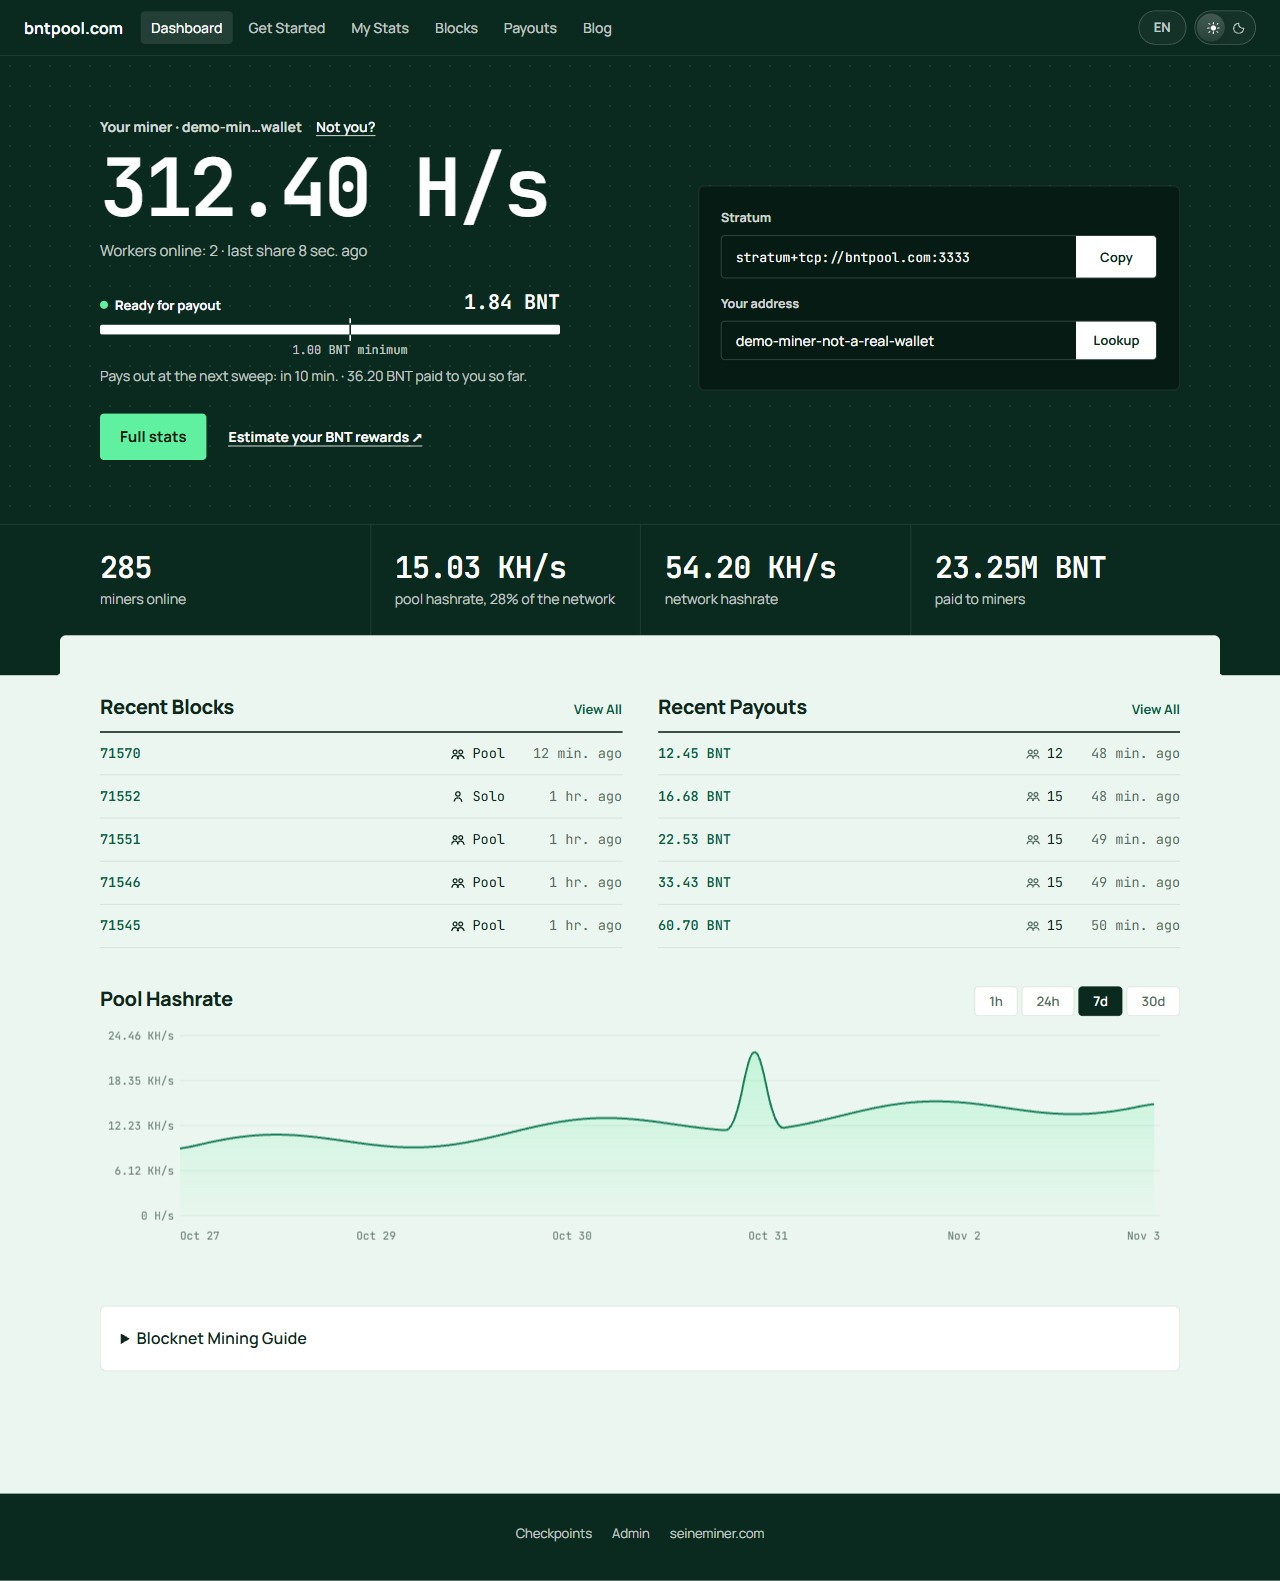
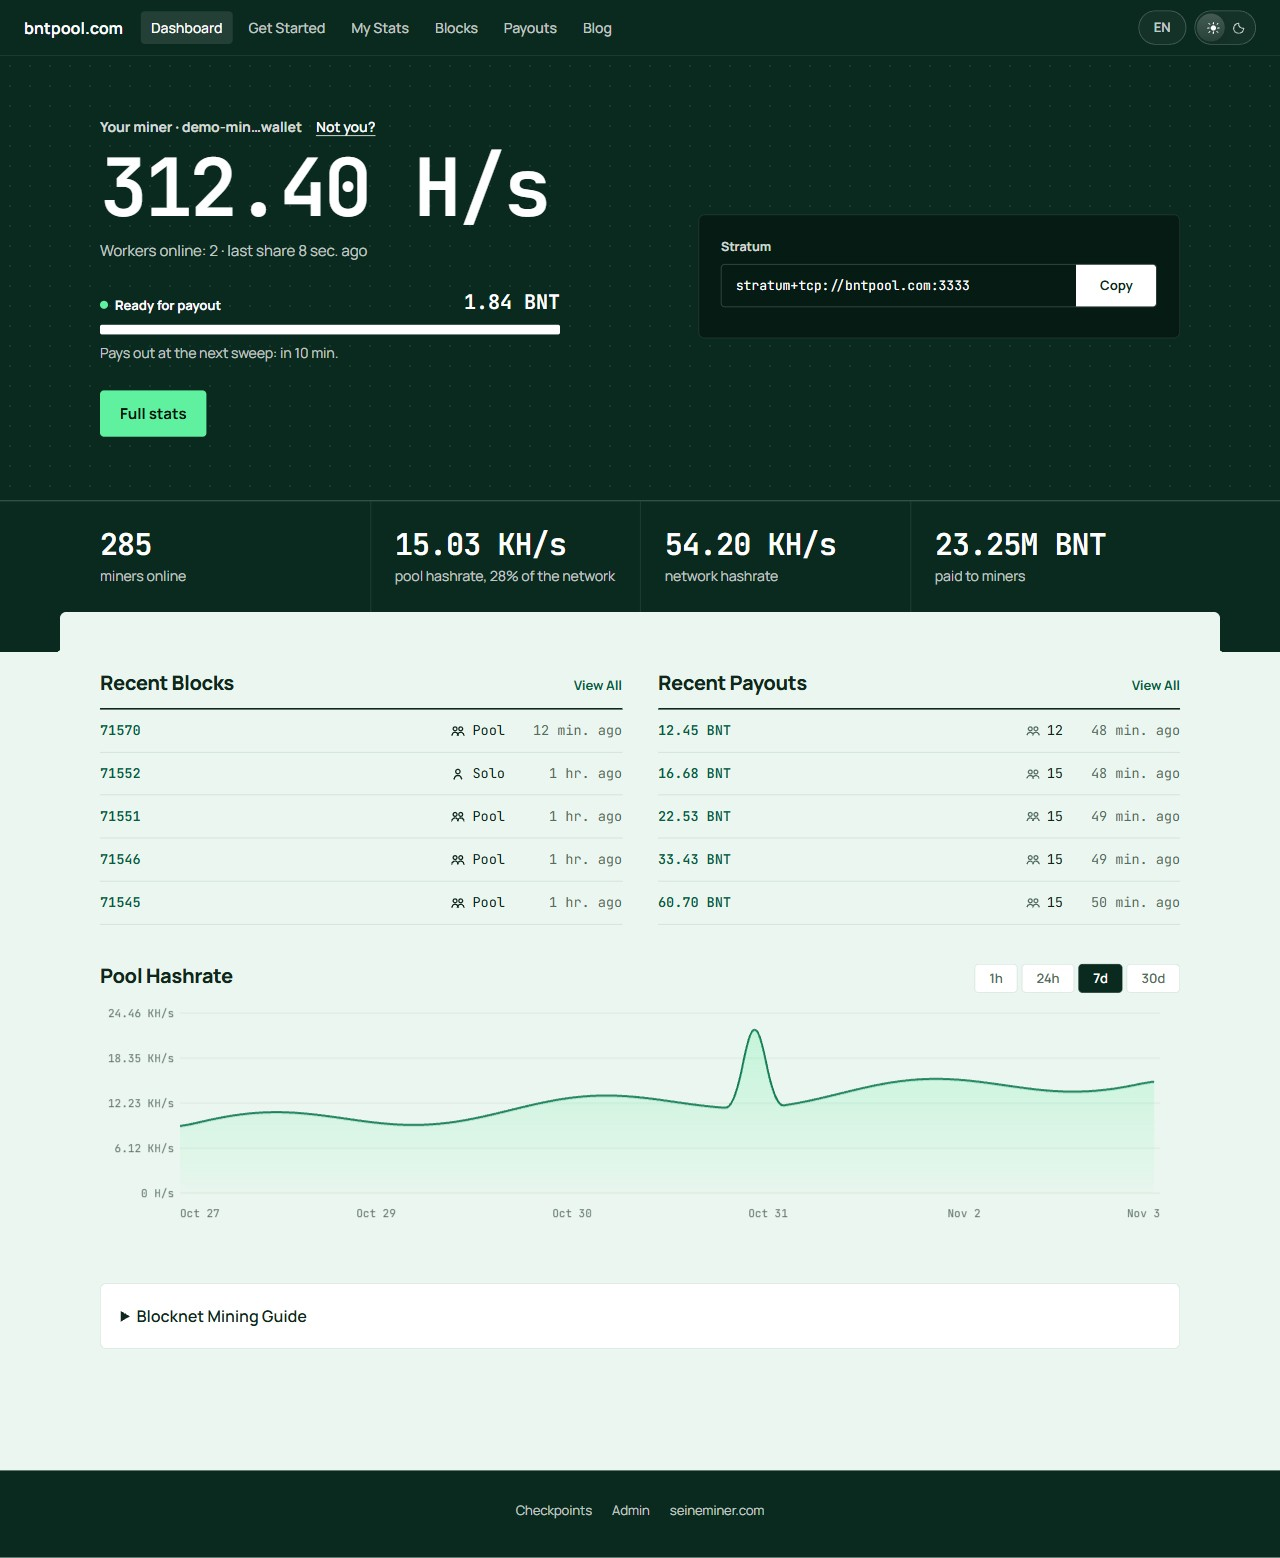
Simplify the returning miner hero on the front page
A saved miner now sees its hashrate, workers, one next-payout bar and Full
stats. The remaining-amount, paid-so-far and exchange minimum lines, the
minimum tick, the rewards calculator link and the address lookup are gone
from the hero; My Stats keeps the detail and "Not you?" still switches
miner. Showcase captures refreshed for the returning miner states.

Claude-Session: https://claude.ai/code/session_01Aa42KkUxqJJU3FHZ18FCNP

diff --git a/frontend/src/pages/DashboardPage.tsx b/frontend/src/pages/DashboardPage.tsx
@@ -11,7 +11,6 @@ import {
   formatCoinAmount,
   formatCoins,
   formatCompactCoins,
-  formatExactCoins,
   humanRate,
   shortAddr,
   stratumUrl,
@@ -223,7 +222,8 @@ export function DashboardPage({ api, poolInfo, liveTick, theme, onJumpToStats }:
               </button>
             </div>
             {copyState === 'error' && <p className="home-copy-error" role="alert">{t('copyUnavailable')}</p>}
-            <label className="home-label" htmlFor="dashboard-lookup">{showMiner ? t('yourAddress') : t('checkMiner')}</label>
+            {!showMiner && <>
+            <label className="home-label" htmlFor="dashboard-lookup">{t('checkMiner')}</label>
             <form
               className="home-field"
               onSubmit={(event) => {
@@ -245,6 +245,7 @@ export function DashboardPage({ api, poolInfo, liveTick, theme, onJumpToStats }:
               />
               <button type="submit">{t('m488')}</button>
             </form>
+            </>}
           </div>
         </div>
       </section>
@@ -348,16 +349,11 @@ function MinerHero({ miner, balance, loading, destination, poolInfo, insights, o
   // Exchange (memo) accounts have their own, higher minimum; the balance API reports it.
   const accountMinimum = balance?.min_payout_amount ?? (memoAccount ? poolInfo?.memo_min_payout_amount : poolInfo?.min_payout_amount);
   const minimum = minimumPayoutAtoms(accountMinimum);
-  const personalMinimum = memoAccount ? minimumPayoutAtoms(poolInfo?.min_payout_amount) : null;
   const payout = balance ? heroPayout(minimum, balance.balance.pending_confirmed, balance.balance.pending_queued) : null;
-  const paid = balance?.balance.paid ?? 0;
   const lastPayout = miner?.payouts?.[0];
   const recentPayout = lastPayout && Date.now() - toUnixMs(lastPayout.timestamp) < RECENT_PAYOUT_MS ? lastPayout : null;
   const nextSweepAt = insights?.payout_eta?.next_sweep_at;
   const sweepLabel = !nextSweepAt ? null : toUnixMs(nextSweepAt) <= Date.now() ? t('dueNow') : timeUntil(nextSweepAt);
-  const paidLine = recentPayout
-    ? t('lastPayout', [formatCoins(recentPayout.amount), timeAgo(recentPayout.timestamp)])
-    : t('paidSoFar', [formatCoins(paid)]);
 
   return (
     <div className="home-pitch home-miner" aria-busy={loading}>
@@ -378,33 +374,25 @@ function MinerHero({ miner, balance, loading, destination, poolInfo, insights, o
             <div className="home-pay-top"><span>{t('nextPayout')}</span>
               <span>{tx('payoutOf', [<strong key="have" dir="ltr">{formatCoinAmount(payout.confirmed)}</strong>, <bdi key="min" dir="ltr">{formatCoins(payout.minimum)}</bdi>])}</span></div>
             <div className="home-bar"><div style={{ width: `${payout.fillPct}%` }} /></div>
-            <span className="home-pay-sub">{tx('statsPayoutRemaining', [<bdi key="left" dir="ltr">{formatExactCoins(payout.remaining)}</bdi>])} {paidLine}</span>
+            {recentPayout && <span className="home-pay-sub">{t('lastPayout', [formatCoins(recentPayout.amount), timeAgo(recentPayout.timestamp)])}</span>}
           </>}
           {payout.state === 'ready' && <>
             <div className="home-pay-top"><span className="home-tag"><i aria-hidden="true" />{t('payoutReady')}</span>
               <strong dir="ltr">{formatCoins(payout.amount)}</strong></div>
-            <div className="home-bar"><div style={{ width: '100%' }} /><i style={{ insetInlineStart: `${payout.minimumPct}%` }} aria-hidden="true" /></div>
-            <div className="home-bar-labels" aria-hidden="true"><span style={{ insetInlineStart: `${payout.minimumPct}%` }}>{tx('minimumTick', [<bdi key="min" dir="ltr">{formatCoins(payout.minimum)}</bdi>])}</span></div>
-            <span className="home-pay-sub">{sweepLabel ? t('payoutAtSweep', [sweepLabel]) : t('statsPayoutMet')} · {paidLine}</span>
+            <div className="home-bar"><div style={{ width: '100%' }} /></div>
+            {sweepLabel && <span className="home-pay-sub">{t('payoutAtSweep', [sweepLabel])}</span>}
           </>}
           {payout.state === 'queued' && <>
             <div className="home-pay-top"><span className="home-tag"><i aria-hidden="true" />{t('payoutQueuedTag')}</span>
               <strong dir="ltr">{formatCoins(payout.amount)}</strong></div>
             <div className="home-bar"><div className="is-queued" style={{ width: '100%' }} /></div>
-            <span className="home-pay-sub">{t('payoutQueuedNote')}</span>
           </>}
-          {personalMinimum != null && minimum != null && personalMinimum < minimum && (
-            <span className="home-pay-sub">{t('memoPersonalMinimum', [formatCoins(personalMinimum)])}</span>
-          )}
         </div>
       )}
       {balance && payout?.state === 'unavailable' && <p className="home-me-sub">{t('statsPayoutBalanceUnavailable')}</p>}
 
       <div className="home-cta">
         <a className="home-btn" href={localizePath('/stats')}>{t('fullStats')}</a>
-        <a className="home-link" href={localizePath('/blog/') + 'estimate-blocknet-mining-rewards/#mining-calculator'}>
-          {t('rewardsCalculator')}<span aria-hidden="true"> ↗</span>
-        </a>
       </div>
     </div>
   );

diff --git a/frontend/showcases/front-page/captures.html b/frontend/showcases/front-page/captures.html
@@ -5,7 +5,7 @@
 <figure><figcaption>First visit, phone, dark · <code>first-mobile-dark.jpg</code></figcaption><img src="captures/first-mobile-dark.jpg" alt="First visit, phone, dark" loading="lazy"></figure>
 <figure><figcaption>Returning miner below the 1 BNT minimum · <code>below-desktop.jpg</code></figcaption><img src="captures/below-desktop.jpg" alt="Returning miner below the 1 BNT minimum" loading="lazy"></figure>
 <figure><figcaption>Returning miner below the minimum, phone · <code>below-mobile.jpg</code></figcaption><img src="captures/below-mobile.jpg" alt="Returning miner below the minimum, phone" loading="lazy"></figure>
-<figure><figcaption>Over the minimum: tick marks the minimum · <code>ready-desktop.jpg</code></figcaption><img src="captures/ready-desktop.jpg" alt="Over the minimum: tick marks the minimum" loading="lazy"></figure>
+<figure><figcaption>Over the minimum, with the sweep time · <code>ready-desktop.jpg</code></figcaption><img src="captures/ready-desktop.jpg" alt="Over the minimum, with the sweep time" loading="lazy"></figure>
 <figure><figcaption>Over the minimum, phone · <code>ready-mobile.jpg</code></figcaption><img src="captures/ready-mobile.jpg" alt="Over the minimum, phone" loading="lazy"></figure>
 <figure><figcaption>Over the minimum, dark · <code>ready-desktop-dark.jpg</code></figcaption><img src="captures/ready-desktop-dark.jpg" alt="Over the minimum, dark" loading="lazy"></figure>
 <figure><figcaption>Over the minimum, Arabic (right to left) · <code>ready-desktop-ar.jpg</code></figcaption><img src="captures/ready-desktop-ar.jpg" alt="Over the minimum, Arabic (right to left)" loading="lazy"></figure>

diff --git a/frontend/src/lib/payout-progress.ts b/frontend/src/lib/payout-progress.ts
@@ -19,13 +19,12 @@ export function payoutProgress(minimum: number, confirmed: number | undefined, q
 export type HeroPayout =
   | { state: 'unavailable' }
   | { state: 'queued'; amount: number }
-  | { state: 'ready'; amount: number; minimum: number; minimumPct: number }
+  | { state: 'ready'; amount: number; minimum: number }
   | { state: 'below'; confirmed: number; minimum: number; remaining: number; fillPct: number };
 
 /**
- * The front page's next-payout block. Over the minimum the bar is full and
- * minimumPct marks where the minimum sits along it; below it the bar fills
- * toward the minimum.
+ * The front page's next-payout block. Over the minimum the bar is full; below
+ * it the bar fills toward the minimum.
  */
 export function heroPayout(minimum: number | null, confirmed: number | undefined, queued: number): HeroPayout {
   if (minimum == null) return { state: 'unavailable' };
@@ -34,7 +33,7 @@ export function heroPayout(minimum: number | null, confirmed: number | undefined
   if (progress.state === 'queued') return { state: 'queued', amount: progress.amount };
   const balance = confirmed ?? 0;
   if (progress.state === 'met') {
-    return { state: 'ready', amount: balance, minimum, minimumPct: Math.min(100, Math.max(0, (minimum / balance) * 100)) };
+    return { state: 'ready', amount: balance, minimum };
   }
   return {
     state: 'below', confirmed: balance, minimum, remaining: progress.amount,

diff --git a/frontend/src/styles.css b/frontend/src/styles.css
@@ -621,15 +621,6 @@ html:lang(zh) .page-header h1 {
 .home-bar { position: relative; height: 10px; border-radius: 2px; background: rgba(255, 255, 255, 0.14); }
 .home-bar > div { height: 100%; border-radius: 2px; background: #ffffff; }
 .home-bar > .is-queued { background: repeating-linear-gradient(135deg, #ffffff 0 8px, rgba(255, 255, 255, 0.5) 8px 16px); }
-/* The minimum tick: a dark notch inside the full bar, with white stubs above and below it. */
-.home-bar > i { position: absolute; top: 0; bottom: 0; width: 2px; background: var(--hero); transform: translateX(-1px); }
-.home-bar > i::before, .home-bar > i::after { content: ''; position: absolute; left: 0; width: 2px; height: 5px; background: #ffffff; }
-.home-bar > i::before { top: -6px; }
-.home-bar > i::after { bottom: -6px; }
-.home-bar-labels { position: relative; height: 16px; font-family: 'JetBrains Mono', monospace; font-size: 12px; color: var(--hero-dim); }
-.home-bar-labels span { position: absolute; top: 0; transform: translateX(-50%); white-space: nowrap; }
-[dir='rtl'] .home-bar-labels span { transform: translateX(50%); }
-[dir='rtl'] .home-bar > i { transform: translateX(1px); }
 
 .home-body { max-width: 1120px; margin: 0 auto; padding: 38px 20px 34px; display: grid; gap: 36px; }
 .home-head { display: flex; flex-wrap: wrap; justify-content: space-between; align-items: baseline; gap: 6px 12px; margin-bottom: 10px; }

diff --git a/frontend/showcases/front-page/README.md b/frontend/showcases/front-page/README.md
@@ -12,12 +12,12 @@ pool, explorer or analytics endpoint. States:
   under 1100 px, stacked on phones), Quick Start, recent blocks and payouts, the hashrate
   chart and the mining guide.
 - `below`, `ready`, `queued`, `paid`: a saved lookup turns the hero into the visitor's miner, with
-  hashrate, workers, last share and the next payout. Below the minimum the bar fills toward it; over
-  it the bar is full and a tick marks the minimum; a queued payout shows a striped bar; just after a
-  payout the line names it.
+  hashrate, workers, last share, one next-payout bar and Full stats; the side panel keeps only
+  Stratum. Below the minimum the bar fills toward it; over it the bar is full with the sweep time; a
+  queued payout shows a striped bar; just after a payout a line names it.
 - `no-workers`: a saved miner with nothing online links to the zero-hashrate help.
 - `exchange`, `exchange-ready`: an exchange deposit with a memo uses its own 10 BNT minimum from the
-  balance API and notes where personal wallets start.
+  balance API.
 - `miner-error`: a saved lookup that fails falls back to the first-visit view.
 - `loading`, `empty`: pool data pending, and a pool with no blocks or payouts yet.
 - `luck`: the Luck page, which now carries the Current Round card the old dashboard showed.
